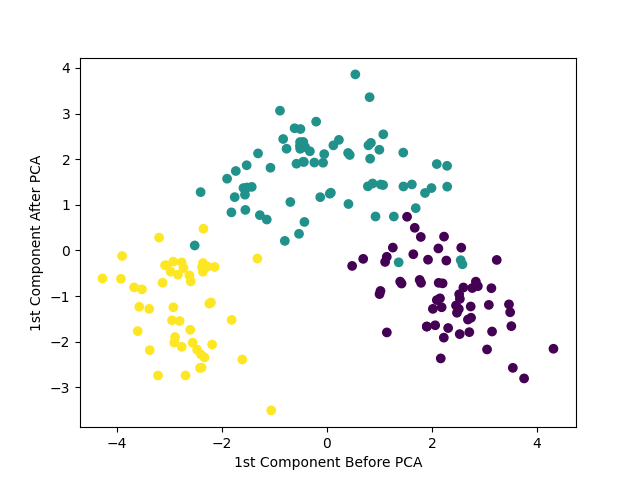
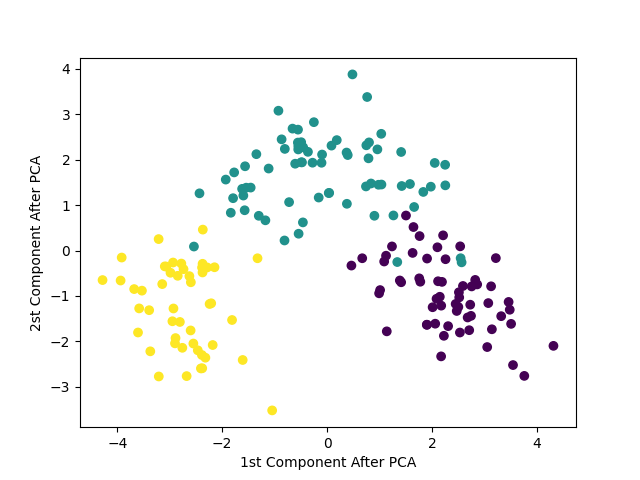
final

diff --git a/Asgn2/Q1.py b/Asgn2/Q1.py
@@ -2,10 +2,10 @@ import pandas as pd
 import numpy as np
 import matplotlib.pyplot as plt
 from sklearn.decomposition import PCA
-from data_processing import normalize
+from data_processing import normalize,read_data
 from Kmeans import getInitialRep,Kmeans
 
-df = pd.read_csv("wine.csv")
+df = read_data()
 
 x = df.drop(columns=["Target Class"],axis=1)
 y = df["Target Class"]
@@ -28,8 +28,8 @@ plt.savefig("Variance_VS_Component_number.png", format="png")
 plt.show()
 
 # print("Scatter plot of 1st component before and after PCA: ")
-plt.xlabel("1st Component Before PCA")
-plt.ylabel("1st Component After PCA")
+plt.xlabel("1st Component After PCA")
+plt.ylabel("2st Component After PCA")
 plt.scatter(principalDf[principalDf.columns[0]],principalDf[principalDf.columns[1]],c=y)
 plt.savefig("PCA_visulation.png", format="png")
 plt.show()
@@ -40,6 +40,8 @@ for k in range(2,9):
     J, reps, nmi = Kmeans(getInitialRep(k,principalDf,random),principalDf,y)
     K.append(k)
     NMI.append(nmi)
+
+print(np.argmax(NMI)+2, " :is value of K for which NMI is Maximum")
 
 print("NMI List with K from [2-8] : ", NMI)
 plt.xlabel("Number of Clusters (k)")

diff --git a/Asgn2/data_processing.py b/Asgn2/data_processing.py
@@ -4,7 +4,7 @@ from Models import MLP
 
 def read_data():
     cols_list = [
-        'wine',
+        'Target Class',
         'alcohol',
         'malic acid',
         'ash',
@@ -21,10 +21,8 @@ def read_data():
     ]
 
     df = pd.read_csv('wine.data', sep=',', header=None, names=cols_list)
-
-    x = df.iloc[:, 1:].to_numpy()
-    y = df.iloc[:, 0].to_numpy()
-    return x, y
+    
+    return df
 
 def trainTestSplit(x, y, testRatio=0.2, shuffle=True):
 

diff --git a/Asgn2/Q2.py b/Asgn2/Q2.py
@@ -5,8 +5,10 @@ from data_processing import read_data, trainTestSplit, normalize, forward_featur
 import matplotlib.pyplot as plt
 
 def main():
-    x, y = read_data()
-
+    df = read_data()
+    x = df.iloc[:, 1:].to_numpy()
+    y = df.iloc[:, 0].to_numpy()
+    
     xTrainSet, xTestSet, yTrainSet, yTestSet = trainTestSplit(x, y)
     xTrainSet, xTestSet = normalize(xTrainSet, xTestSet)
 
